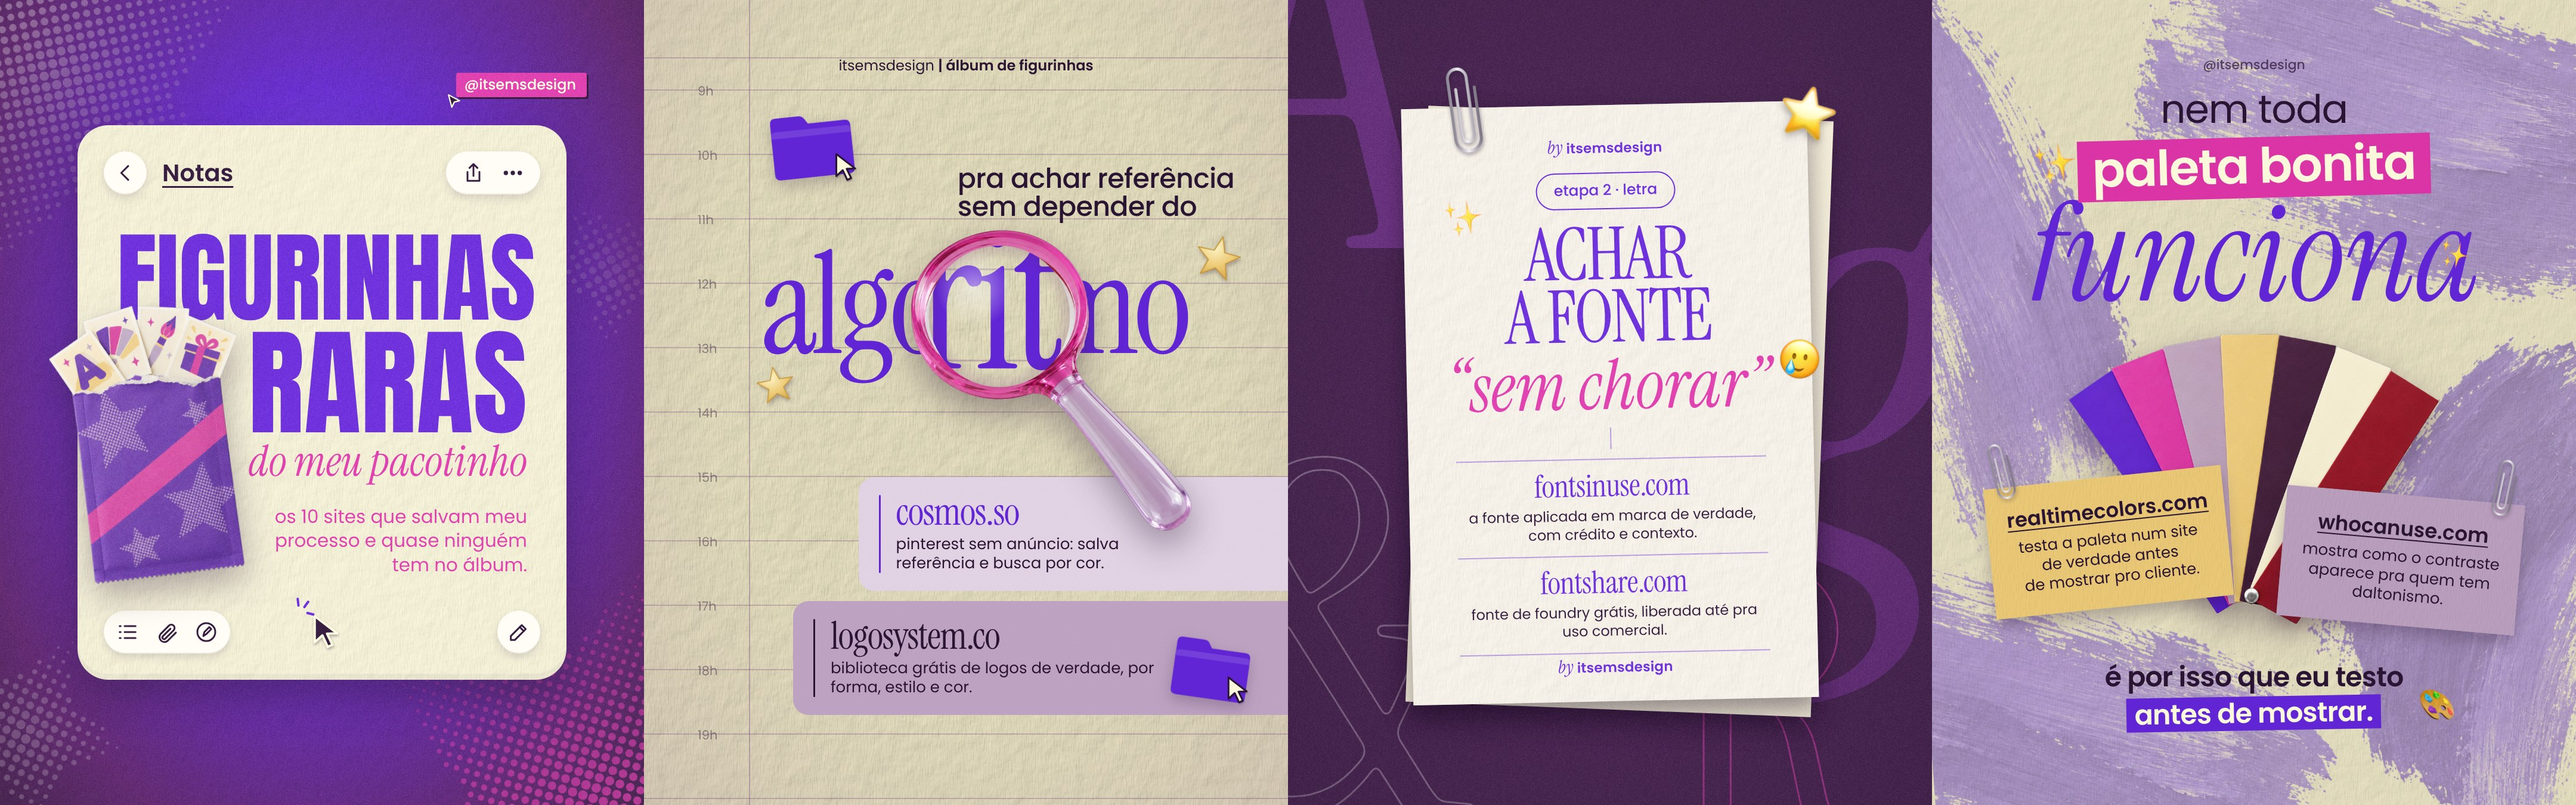
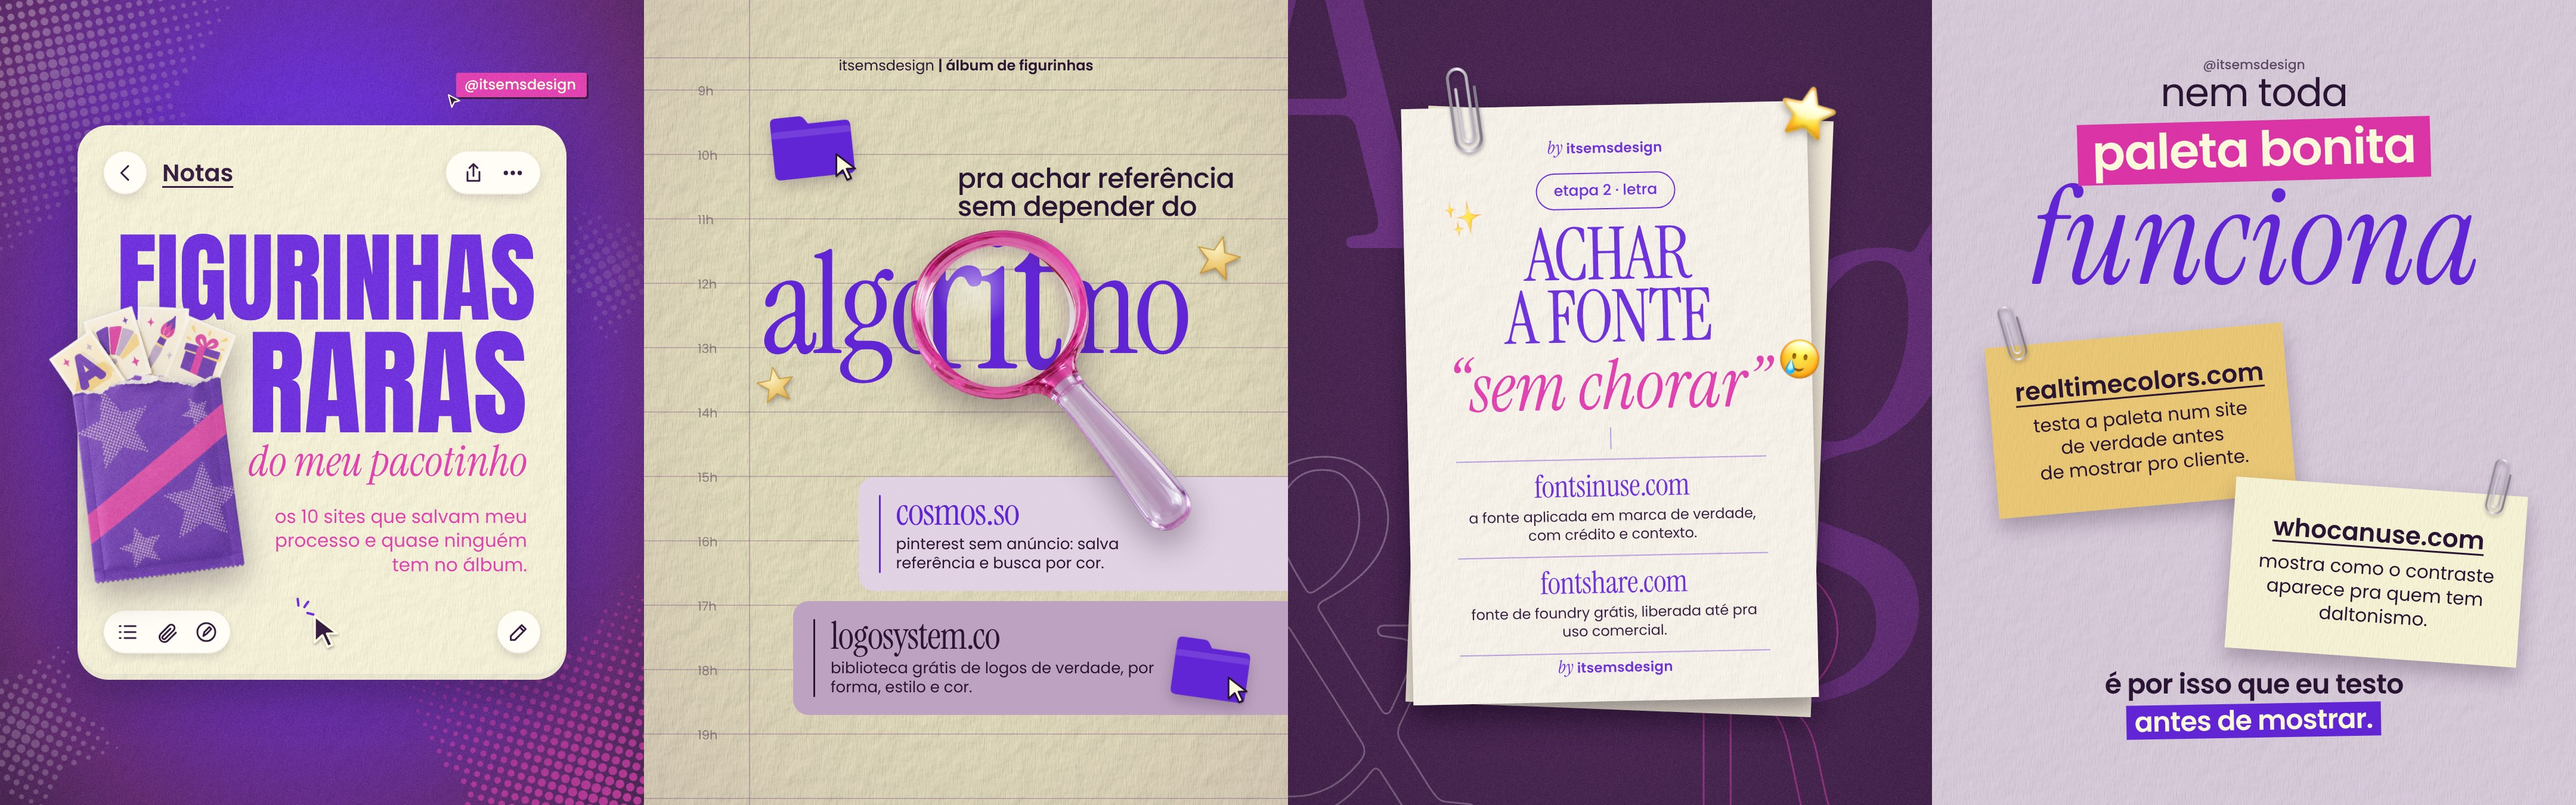
EMS figurinhas raras v4: página 4 enxugada (post-its como destaque, sem emoji, sem leque)
Claude-Session: https://claude.ai/code/session_01CmCiKB9wFc4qQovptupnZT

Changed region(s): [[0.75, 0.0, 1.0, 1.0]]

diff --git a/Emi/ems-album-figurinhas/projeto/carrossel.html b/Emi/ems-album-figurinhas/projeto/carrossel.html
@@ -193,29 +193,24 @@ const FOLHA = `<div class="abs" style="inset:0;background:var(--ivory-2)"></div>
   let nc = 0;
   const clipe = (x, y, r) => { const id = 'clp4' + (nc++); return `<svg class="abs" style="left:${x}px;top:${y}px;width:34px;transform:rotate(${r}deg);filter:drop-shadow(1px 4px 3px rgba(42,20,51,.35));z-index:3" viewBox="0 0 46 130"><defs><linearGradient id="${id}" x1="0" x2="1"><stop offset="0" stop-color="#8f8a97"/><stop offset=".45" stop-color="#f4f1f7"/><stop offset="1" stop-color="#7f7987"/></linearGradient></defs>
     <path d="M14 34 V104 a9 9 0 0 0 18 0 V18 a14 14 0 0 0 -28 0 V108 a19 19 0 0 0 38 0 V34" fill="none" stroke="url(#${id})" stroke-width="4.4" stroke-linecap="round"/></svg>`; };
-  const postit = (x, y, w, r, cor, s) => `<div class="abs" style="left:${x}px;top:${y}px;width:${w}px;padding:38px 34px 34px;background:${cor};transform:rotate(${r}deg);box-shadow:0 14px 26px rgba(42,20,51,.28);text-align:center">
+  const postit = (x, y, w, r, cor, s) => `<div class="abs" style="left:${x}px;top:${y}px;width:${w}px;padding:56px 44px 50px;background:${cor};transform:rotate(${r}deg);box-shadow:0 18px 34px rgba(42,20,51,.28);text-align:center">
       <div class="abs" style="inset:0;background-image:var(--tx-fibras);background-size:400px;mix-blend-mode:multiply;opacity:.35"></div>
-      <div style="position:relative;font-family:var(--sans);font-weight:600;font-size:34px;line-height:1.1;color:var(--tinta);text-decoration:underline;text-underline-offset:6px;text-decoration-thickness:2px">${s.nome}</div>
-      <div style="position:relative;font-family:var(--sans);font-size:26px;line-height:1.25;color:var(--tinta);margin-top:12px">${s.pra}</div></div>`;
+      <div style="position:relative;font-family:var(--sans);font-weight:600;font-size:42px;line-height:1.1;color:var(--tinta);text-decoration:underline;text-underline-offset:8px;text-decoration-thickness:3px">${s.nome}</div>
+      <div style="position:relative;font-family:var(--sans);font-size:31px;line-height:1.28;color:var(--tinta);margin-top:16px">${s.pra}</div></div>`;
   const tarja = (txt, tam, bg, cor, r = 0) => `<span style="display:inline-block;font-family:var(--sans);font-weight:600;font-size:${tam}px;line-height:1;letter-spacing:-.02em;padding:.1em .3em .14em;background:${bg};color:${cor};transform:rotate(${r}deg)">${txt}</span>`;
   lamina(3, `
     <div class="abs" style="left:0;right:0;top:92px;text-align:center;font-family:var(--sans);font-weight:500;font-size:22px;color:rgba(42,20,51,.7)">@itsemsdesign</div>
-    <div class="abs" style="left:0;right:0;top:150px;text-align:center">
+    <div class="abs" style="left:0;right:0;top:122px;text-align:center">
       <div style="font-family:var(--sans);font-weight:400;font-size:66px;line-height:1;color:var(--tinta);letter-spacing:-.02em">nem toda</div>
       <div style="margin-top:14px">${tarja('paleta bonita', 82, 'var(--pink)', 'var(--ivory)', -1.5)}</div>
       <div style="margin-top:-6px;font-family:var(--serif);font-style:italic;font-size:226px;line-height:.9;color:var(--violeta)">funciona</div></div>
-    <img class="abs" src="emoji/2728.png" style="left:170px;top:236px;width:74px;transform:rotate(-10deg)">
-    <img class="abs" src="emoji/2728.png" style="left:850px;top:400px;width:52px;transform:rotate(12deg)">
-    ${objeto({ x: 230, y: 560, w: 620, r: 0, src: 'leque' })}
-    ${postit(96, 800, 400, -6, 'var(--manteiga)', s1)}${clipe(100, 742, -14)}
-    ${postit(586, 830, 400, 5, 'var(--lavanda)', s2)}${clipe(944, 770, 12)}
-    <div class="abs" style="left:0;right:0;top:1112px;text-align:center">
+    ${postit(100, 562, 500, -5, 'var(--manteiga)', s1)}${clipe(118, 510, -16)}
+    ${postit(500, 816, 490, 4, 'var(--ivory)', s2)}${clipe(934, 768, 14)}
+    <div class="abs" style="left:0;right:0;top:1124px;text-align:center">
       <div style="font-family:var(--sans);font-weight:600;font-size:46px;line-height:1;color:var(--tinta);letter-spacing:-.02em">é por isso que eu testo</div>
       <div style="margin-top:10px">${tarja('antes de mostrar.', 46, 'var(--violeta)', 'var(--ivory)', -1)}</div></div>
-    <img class="abs" src="emoji/1f3a8.png" style="left:816px;top:1150px;width:62px;transform:rotate(10deg)">
-  `, `<div class="abs" style="inset:0;background:var(--ivory-2)"></div>
-      <div class="abs" style="inset:-40px;background:url(texturas/pinceladas.png) center/cover;opacity:.5;transform:scaleX(-1) rotate(4deg)"></div>
-      <div class="abs" style="inset:0;background-image:var(--tx-relevo);background-size:620px;mix-blend-mode:multiply;opacity:.45"></div>
+  `, `<div class="abs" style="inset:0;background:var(--lavanda-2)"></div>
+      <div class="abs" style="inset:0;background-image:var(--tx-relevo);background-size:620px;mix-blend-mode:multiply;opacity:.3"></div>
       <div class="abs" style="inset:0;background-image:var(--tx-fibras);background-size:460px;mix-blend-mode:multiply;opacity:.3"></div>`, 'grao');
 })();
 
